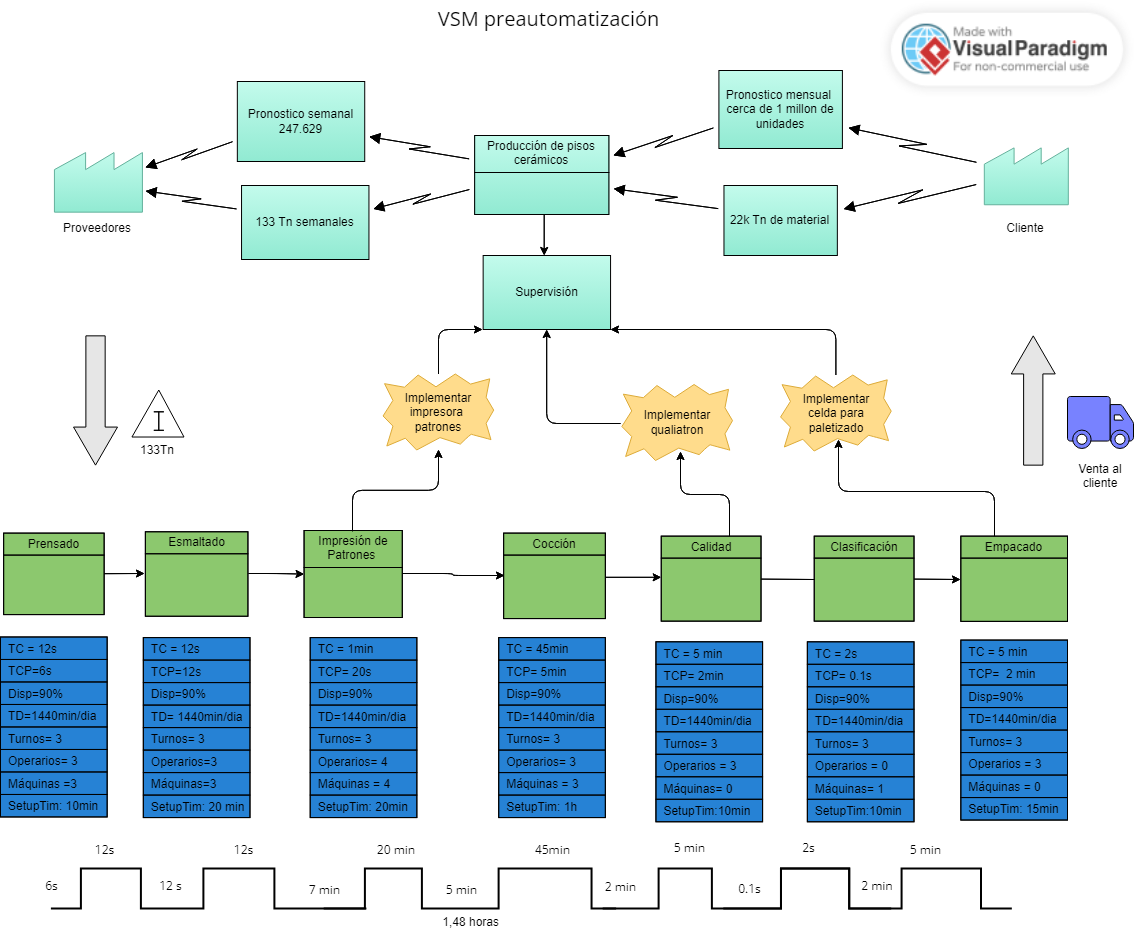
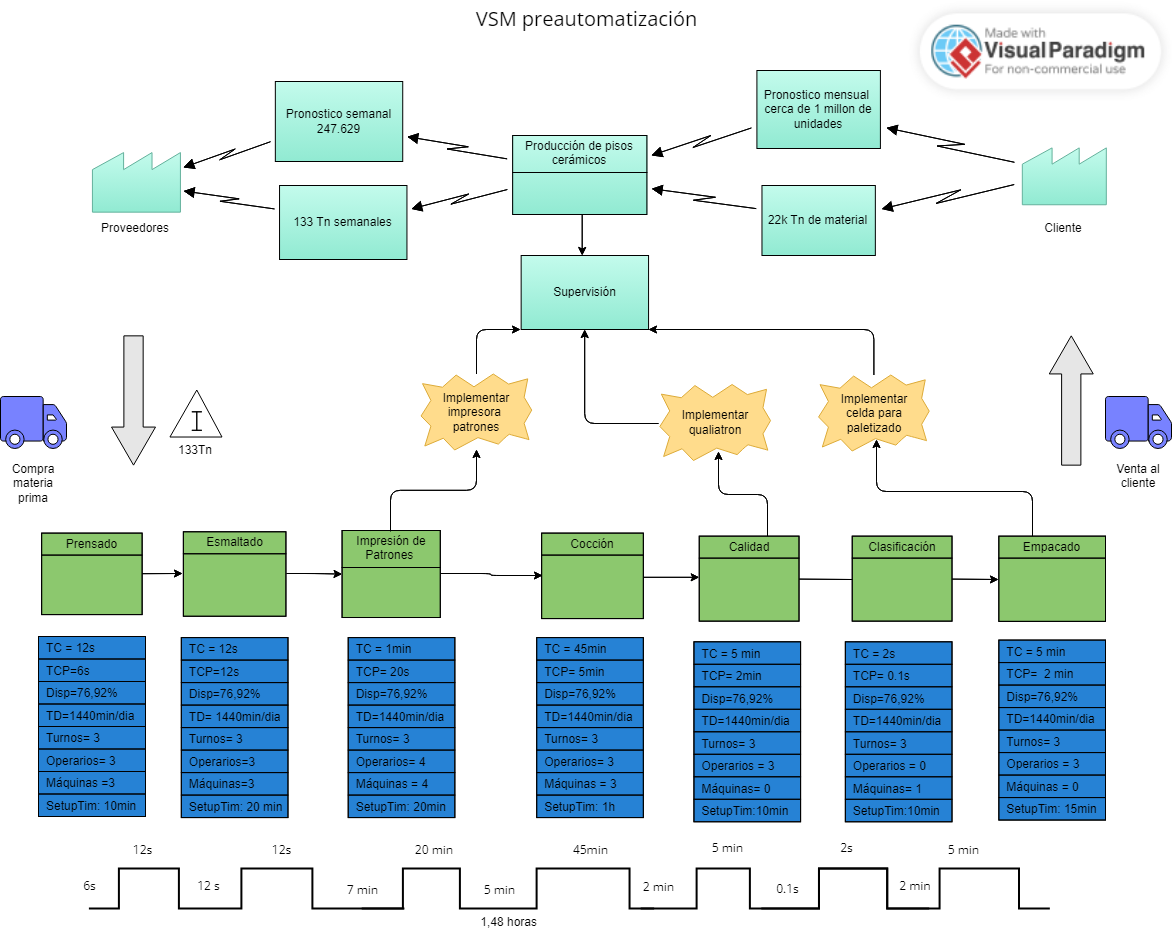
VSM Update

diff --git a/README.md b/README.md
@@ -38,7 +38,9 @@ La información correspondiente se encuentra dentro de la carpeta:
 #### 1.1.2.2 VSM pre automatizado
   ![image](https://github.com/dfcantors/Proyecto_APM/blob/main/1.%20Seccion%20de%20Producto/1.1.%20Gestion%20de%20Produccion/1.1.2.2.2.%20VSM%20pos-automatización.png)
 
-  Las etapas a automatizar se asumieron que se realizan por personal
+  Se tuvieron las siguientes consideraciones
+  - Las etapas a automatizar se asumen son hechas por personal
+  - La disponibilidad y demas tiempos se aplcian de la misma manera a los 3 productos.
 
 
 
